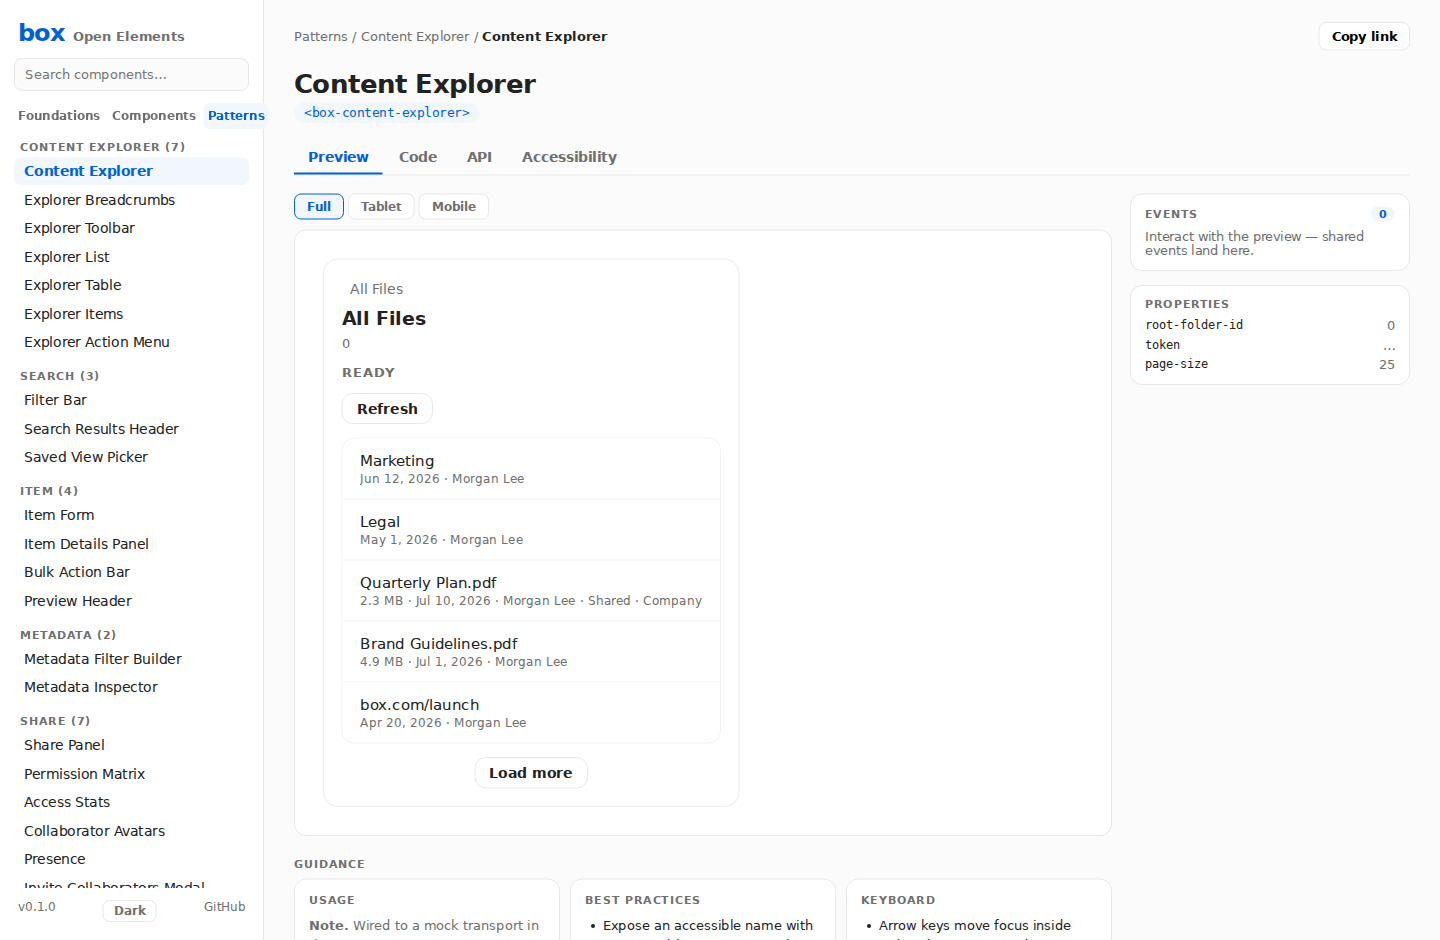
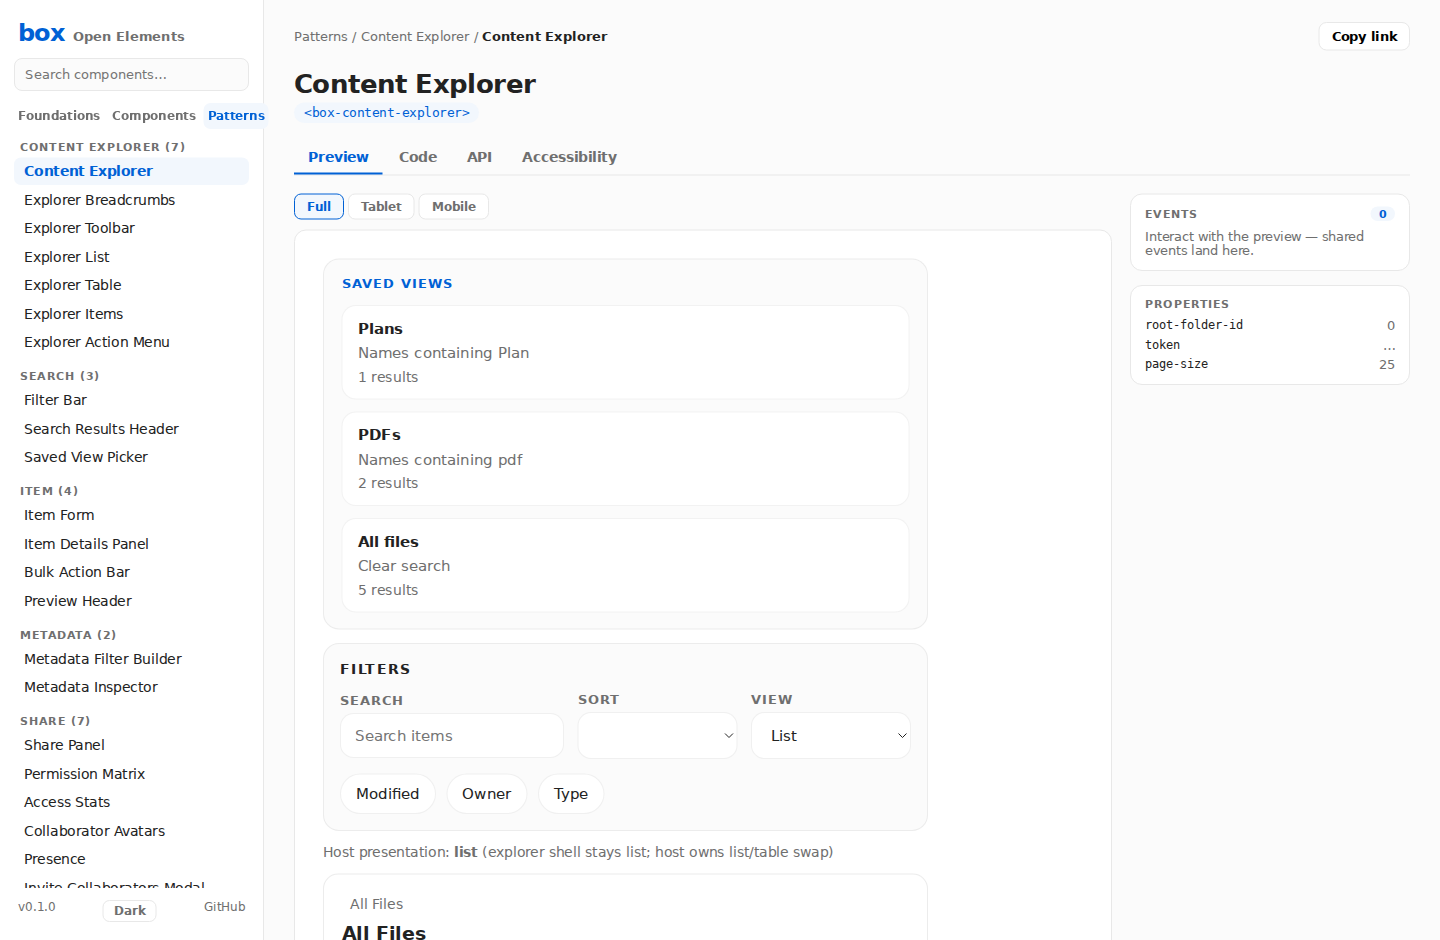
feat(docs-site): explorer host chrome demo with filter-bar and saved views
Compose saved-view-picker + filter-bar + content-explorer in the docs-site
preview and gallery using host bindings. Sync status docs after #54 merge.

diff --git a/docs-site/examples.ts b/docs-site/examples.ts
@@ -6,6 +6,8 @@
  */
 import {
   ContentExplorerController,
+  bindFilterBarToExplorer,
+  bindSavedViewPickerToExplorer,
   type ExplorerTransport,
   type InviteCollaboratorsTransport,
   type PresenceTransport,
@@ -14,7 +16,8 @@ import {
   type ShareState,
 } from "box-open-elements";
 
-type SetupFn = (root: HTMLElement) => void;
+/** Optional return value unsubscribes host listeners when the preview remounts. */
+type SetupFn = (root: HTMLElement) => void | (() => void);
 
 export interface ComponentExample {
   html: string;
@@ -485,9 +488,73 @@ export const examples: Record<string, ComponentExample> = {
 
   // Patterns
   "content-explorer": {
-    html: `<box-content-explorer root-folder-id="0" token="…" page-size="25"></box-content-explorer>`,
-    setup: root => set(root, "box-content-explorer", { transport: createMockTransport() }),
-    note: "Wired to a mock transport in this preview; inject your own ExplorerTransport or data source.",
+    html: `<div class="explorer-host" style="display:grid;gap:0.85rem">
+  <box-saved-view-picker label="Saved views"></box-saved-view-picker>
+  <box-filter-bar label="Filters"></box-filter-bar>
+  <p data-host-presentation style="margin:0;font-size:0.85rem;color:var(--boe-token-text-text-secondary,#6f6f6f)">Host presentation: <strong>list</strong> (explorer shell stays list; host owns list/table swap)</p>
+  <box-content-explorer root-folder-id="0" token="…" page-size="25"></box-content-explorer>
+</div>`,
+    setup: root => {
+      const transport = createMockTransport();
+      set(root, "box-content-explorer", { transport });
+
+      const presets = [
+        { id: "plans", label: "Plans", description: "Names containing Plan", query: "Plan", resultCount: 1 },
+        { id: "pdfs", label: "PDFs", description: "Names containing pdf", query: "pdf", resultCount: 2 },
+        { id: "all-files", label: "All files", description: "Clear search", query: "", resultCount: 5 },
+      ];
+      set(root, "box-saved-view-picker", {
+        views: presets.map(({ id, label, description, resultCount }) => ({
+          id,
+          label,
+          description,
+          resultCount,
+        })),
+        value: "",
+      });
+      set(root, "box-filter-bar", {
+        filterOptions: [
+          { label: "Modified", value: "modified" },
+          { label: "Owner", value: "owner" },
+          { label: "Type", value: "type" },
+        ],
+        sortOptions: [
+          { label: "Name", value: "name" },
+          { label: "Modified", value: "modified" },
+        ],
+        viewOptions: [
+          { label: "List", value: "list" },
+          { label: "Table", value: "table" },
+        ],
+        viewValue: "list",
+      });
+
+      const explorer = root.querySelector("box-content-explorer") as
+        | (HTMLElement & { search: (q: string) => Promise<void>; clearSearch: () => Promise<void> })
+        | null;
+      const filterBar = root.querySelector("box-filter-bar");
+      const picker = root.querySelector("box-saved-view-picker");
+      const presentation = root.querySelector<HTMLElement>("[data-host-presentation]");
+      if (!explorer || !filterBar || !picker) {
+        return;
+      }
+
+      const unbindFilter = bindFilterBarToExplorer(filterBar, explorer, {
+        onViewChange: view => {
+          if (presentation) {
+            presentation.innerHTML = `Host presentation: <strong>${view || "list"}</strong> (explorer shell stays list; host owns list/table swap)`;
+          }
+        },
+      });
+      const unbindViews = bindSavedViewPickerToExplorer(picker, explorer, {
+        resolvePreset: id => presets.find(preset => preset.id === id),
+      });
+      return () => {
+        unbindFilter();
+        unbindViews();
+      };
+    },
+    note: "Host composition: saved-view-picker + filter-bar bound to explorer search via bindFilterBarToExplorer / bindSavedViewPickerToExplorer. Mock transport; inject your own ExplorerTransport in apps.",
   },
   "explorer-breadcrumbs": { html: `<box-explorer-breadcrumbs></box-explorer-breadcrumbs>`, setup: explorerAdapterSetup("box-explorer-breadcrumbs"), note: "Driven by a shared ContentExplorerController with a mock transport." },
   "explorer-toolbar": { html: `<box-explorer-toolbar></box-explorer-toolbar>`, setup: explorerAdapterSetup("box-explorer-toolbar"), note: "Driven by a shared ContentExplorerController with a mock transport." },

diff --git a/tools/preview/gallery.html b/tools/preview/gallery.html
@@ -193,8 +193,13 @@
 </section>
 
 <section id="section-explorer-element">
-  <h2>Patterns · Composed box-content-explorer (mock transport)</h2>
-  <div class="row"><box-content-explorer id="content-explorer" root-folder-id="0" token="preview-token" page-size="25"></box-content-explorer></div>
+  <h2>Patterns · Content explorer host chrome (filter-bar + saved views + explorer)</h2>
+  <div class="row" style="display:grid;gap:0.85rem;width:100%">
+    <box-saved-view-picker id="explorer-saved-views" label="Saved views"></box-saved-view-picker>
+    <box-filter-bar id="explorer-filter-bar" label="Filters"></box-filter-bar>
+    <p id="explorer-presentation" style="margin:0;font-size:0.85rem;color:var(--boe-token-text-text-secondary,#6f6f6f)">Host presentation: <strong>list</strong></p>
+    <box-content-explorer id="content-explorer" root-folder-id="0" token="preview-token" page-size="25"></box-content-explorer>
+  </div>
 </section>
 
 <script type="module">
@@ -202,6 +207,8 @@
     applyDesignTokens,
     registerBoxDefaultDesignSystem,
     ContentExplorerController,
+    bindFilterBarToExplorer,
+    bindSavedViewPickerToExplorer,
     defineBoxButtonElement,
     defineBoxIconButtonElement,
     defineBoxLinkButtonElement,
@@ -233,6 +240,7 @@
     defineBoxAvatarElement,
     defineBoxPersonaElement,
     defineBoxFilterBarElement,
+    defineBoxSavedViewPickerElement,
     defineBoxSearchResultsHeaderElement,
     defineBoxItemDetailsPanelElement,
     defineBoxBulkActionBarElement,
@@ -270,7 +278,7 @@
     defineBoxProgressRingElement, defineBoxProgressStepsElement, defineBoxTabsElement,
     defineBoxTreeElement, defineBoxAccordionElement, defineBoxCardElement,
     defineBoxPaginationElement, defineBoxAvatarElement, defineBoxPersonaElement,
-    defineBoxFilterBarElement, defineBoxSearchResultsHeaderElement,
+    defineBoxFilterBarElement, defineBoxSavedViewPickerElement, defineBoxSearchResultsHeaderElement,
     defineBoxItemDetailsPanelElement, defineBoxBulkActionBarElement,
     defineBoxExplorerBreadcrumbsElement, defineBoxExplorerToolbarElement,
     defineBoxExplorerTableElement, defineBoxMetricCardElement, defineBoxBarChartElement,
@@ -505,6 +513,43 @@
 
   const explorerElement = byId("content-explorer");
   explorerElement.transport = mockTransport;
+
+  const explorerPresets = [
+    { id: "plans", label: "Plans", description: "Names containing Plan", query: "Plan", resultCount: 1 },
+    { id: "pdfs", label: "PDFs", description: "Names containing pdf", query: "pdf", resultCount: 2 },
+    { id: "all-files", label: "All files", description: "Clear search", query: "", resultCount: 5 },
+  ];
+  const explorerSavedViews = byId("explorer-saved-views");
+  explorerSavedViews.views = explorerPresets.map(({ id, label, description, resultCount }) => ({
+    id,
+    label,
+    description,
+    resultCount,
+  }));
+  const explorerFilterBar = byId("explorer-filter-bar");
+  explorerFilterBar.filterOptions = [
+    { label: "Modified", value: "modified" },
+    { label: "Owner", value: "owner" },
+    { label: "Type", value: "type" },
+  ];
+  explorerFilterBar.sortOptions = [
+    { label: "Name", value: "name" },
+    { label: "Modified", value: "modified" },
+  ];
+  explorerFilterBar.viewOptions = [
+    { label: "List", value: "list" },
+    { label: "Table", value: "table" },
+  ];
+  explorerFilterBar.viewValue = "list";
+  const explorerPresentation = byId("explorer-presentation");
+  bindFilterBarToExplorer(explorerFilterBar, explorerElement, {
+    onViewChange: view => {
+      explorerPresentation.innerHTML = `Host presentation: <strong>${view || "list"}</strong>`;
+    },
+  });
+  bindSavedViewPickerToExplorer(explorerSavedViews, explorerElement, {
+    resolvePreset: id => explorerPresets.find(preset => preset.id === id),
+  });
 
   document.body.dataset.galleryReady = "true";
 </script>

diff --git a/test/docs-site/explorer-chrome-example.test.ts b/test/docs-site/explorer-chrome-example.test.ts
@@ -1,0 +1,19 @@
+import { readFileSync } from "node:fs";
+import { join } from "node:path";
+
+import { describe, expect, it } from "vitest";
+
+// Read source text (do not import docs-site/examples.ts — that pulls the full
+// package barrel into coverage and tanks the repo-wide floors).
+const examplesSource = readFileSync(join(process.cwd(), "docs-site/examples.ts"), "utf8");
+
+describe("docs-site content-explorer chrome example", () => {
+  it("composes saved-view-picker, filter-bar, and content-explorer with host bindings", () => {
+    expect(examplesSource).toMatch(/"content-explorer"\s*:\s*\{/);
+    expect(examplesSource).toContain("box-saved-view-picker");
+    expect(examplesSource).toContain("box-filter-bar");
+    expect(examplesSource).toContain("box-content-explorer");
+    expect(examplesSource).toContain("bindFilterBarToExplorer");
+    expect(examplesSource).toContain("bindSavedViewPickerToExplorer");
+  });
+});

diff --git a/docs-site/main.ts b/docs-site/main.ts
@@ -425,9 +425,17 @@ const renderComponentPage = (entry: CatalogEntry): void => {
       ? renderBulletList(guidance.keyboard)
       : '<p class="inspector-empty">No role-mapped keyboard guidance for this preview — see the shared accessibility conventions.</p>';
   };
+  let setupCleanup: (() => void) | undefined;
   const mount = (html: string, runSetup: boolean): void => {
+    setupCleanup?.();
+    setupCleanup = undefined;
     canvas.innerHTML = html;
-    if (runSetup) example.setup?.(canvas);
+    if (runSetup) {
+      const cleanup = example.setup?.(canvas);
+      if (typeof cleanup === "function") {
+        setupCleanup = cleanup;
+      }
+    }
     refreshInspectors();
   };
   mount(initialHtml, !hasVariants);
@@ -469,6 +477,8 @@ const renderComponentPage = (entry: CatalogEntry): void => {
   }
 
   teardown = () => {
+    setupCleanup?.();
+    setupCleanup = undefined;
     observer?.disconnect();
     for (const [name, listener] of listeners) canvas.removeEventListener(name, listener);
   };

diff --git a/docs/HANDOFF.md b/docs/HANDOFF.md
@@ -26,9 +26,9 @@ internal **Storybook workshop** (`storybook/`) whose stories are extracted to
 - **CI** (`.github/workflows/ci.yml`): `Verify` (typecheck + **coverage-gated** tests + build) and
   `Visual regression` (strict pixel diff inside a pinned Playwright container).
   Coverage floors: [docs/coverage-baseline.md](./coverage-baseline.md).
-- Recent merged PRs: fidelity Batches 0–7 + #41–**#53** (workshop stories through #52 at **49** surfaces).
+- Recent merged PRs: fidelity Batches 0–7 + #41–**#54** (coverage baseline gate, theming/motion, style bridge, explorer host bindings).
 - Foundations: theming + motion docs; `src/foundations/motion`; style bridge CLI; explorer host bindings for filter-bar / saved views.
-- **Open PR #54:** coverage baseline + deferred-items pull-back — `cursor/coverage-baseline-deferred-7eb7`.
+- **Open PR:** docs-site explorer chrome demo + status sync — `cursor/explorer-chrome-demo-7eb7`.
 
 ## Completed initiative: component fidelity program
 
@@ -142,7 +142,7 @@ organized into **systemic sweeps**, not per-component rewrites.
   `getMirroredFormValue(el.internals)` in tests.
 
 ## Open user-facing threads
-- Fidelity program complete; #44–**#53** merged (workshop at **49** surfaces; CI watch rules).
-- Coverage baseline measured + hard-gated; theming/motion foundations and style bridge pulled active.
-- Explorer host bindings for filter-bar / saved-view shipped; `recents` still needs a transport contract.
-- Next: more workshop stories; docs-site explorer chrome demo; framework-adapter PoC; next build-along lesson; opportunistic motion-literal migration.
+- Fidelity program complete; #44–**#54** merged (workshop at **49** surfaces; coverage gate; theming/motion; style bridge).
+- Docs-site explorer chrome demo in flight (`cursor/explorer-chrome-demo-7eb7`): filter-bar + saved-view + explorer host composition.
+- `recents` still needs a transport contract; list/table presentation swap remains host-owned.
+- Next after chrome demo: more workshop stories; next build-along lesson; React adapter PoC; opportunistic motion-literal migration.

diff --git a/BACKLOG.md b/BACKLOG.md
@@ -26,9 +26,9 @@ Driver: [docs/audits/component-fidelity-audit.md](./docs/audits/component-fideli
 
 - Explorer search + enriched item columns + UI chrome shipped (#43).
 - **Active:** host wiring for `box-filter-bar` / `box-saved-view-picker` → explorer search (`bindFilterBarToExplorer`, `bindSavedViewPickerToExplorer` in `patterns/content-explorer`).
+- **In flight:** docs-site + gallery host chrome demo (filter-bar + saved-view + explorer, local presets) — `cursor/explorer-chrome-demo-7eb7`.
 - **Next slices:**
-  - Host demo in docs-site that composes filter-bar + saved-view + explorer (local presets).
-  - Presentation switch (list/table) via filter-bar `view` + `onViewChange`.
+  - Wire host list/table presentation adapters when swapping off the composed list shell.
   - `recents` view mode once a real transport contract exists (do not fake as a folder listing).
   - Configurable / permission-gated columns.
 
@@ -39,7 +39,7 @@ Driver: [docs/audits/component-fidelity-audit.md](./docs/audits/component-fideli
 - Storybook workshop shipped (`storybook/`, see `docs/workshop/storybook.md`) — extraction backend for docs-site variants; not deployed publicly.
 - `packages/box-server` shipped (see `docs/integration/box-server.md`).
 - CI (`bun run verify` + pixel gate) shipped on pushes/PRs. Agent CI/PR monitoring rules shipped in `AGENTS.md` (#50): poll checks, fix red immediately, cancel/rerun stuck runs.
-- **Coverage baseline measured and hard-gated** (**Open PR #54**) — see [docs/coverage-baseline.md](./docs/coverage-baseline.md). `bun run verify` runs `test:coverage` with floors (lines/statements 80%, functions 85%, branches 65%). Raise floors only after a fresh measurement.
+- **Coverage baseline measured and hard-gated** (#54) — see [docs/coverage-baseline.md](./docs/coverage-baseline.md). `bun run verify` runs `test:coverage` with floors (lines/statements 80%, functions 85%, branches 65%). Raise floors only after a fresh measurement.
 - **Style bridge shipped** (`tools/style-bridge/`, `bun run style-bridge`) — selector-bridge + token-bridge for the documented CSS/SCSS subset. Add real library configs only when restyling a concrete stylesheet.
 
 ## Active follow-ups (formerly deferred)

diff --git a/docs/patterns/content-explorer.md b/docs/patterns/content-explorer.md
@@ -157,6 +157,8 @@ const unbindViews = bindSavedViewPickerToExplorer(picker, explorer, {
 | Saved-view persistence / server schema | Host (local presets first) |
 | `recents` transport mode | Next slice — needs a real transport contract before controller mode |
 
+The docs-site `content-explorer` preview and the screenshot gallery compose this chrome with local presets (Plans / PDFs / All files) against the mock transport.
+
 ## Lessons carried from the original recreation plan
 
 - **Enrich the item contract.** — done (optional summary fields above).